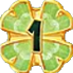
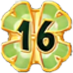
melhora

diff --git a/teste.py b/teste.py
@@ -79,14 +79,14 @@ def exibir_taboleiro(taboleiro,screen, posx1, posx2, posx3, posx4, posx5, posx6,
         for j in range(4):#colunas
             n_botao += 1
             if taboleiro[i][j] !=0:
-                imagem_fundo = pygame.image.load("trevos/" + str(taboleiro[0][0]) + ".png").convert_alpha()
+                imagem_fundo = pygame.image.load("trevos/" + str(taboleiro[i][j]) + ".png").convert_alpha()
                 imagem_fundo = pygame.transform.scale(imagem_fundo, (73, 73))
                 x = eval("posx" + str(n_botao))
                 y = eval("posy" + str(n_botao))
                 screen.blit(imagem_fundo, (x - 36, y - 36))
 
     if taboleiro[4][0] != 0:
-        imagem_fundo = pygame.image.load("trevos/" + str(taboleiro[0][0]) + ".png").convert_alpha()
+        imagem_fundo = pygame.image.load("trevos/" + str(taboleiro[4][0]) + ".png").convert_alpha()
         imagem_fundo = pygame.transform.scale(imagem_fundo, (73, 73))
         x = 281
         y = 615
@@ -744,8 +744,8 @@ def tela6(nome):
         print("Bot começa!")
         while (not B_preenhido and not J_prenchido) and not (len(trevos) == 40):  # as condicoes de fim do jogo sao alguem ja ter preenchido to do o taboleiro ou os trevos esgotarem-se
             #aaa(imagem1_verde_exibida, imagem1_fundo, imagem17_fundo, imagem17_verde_exibida, Botao1, Botao17, screen, posx1, posy1, cor_de_fundo, imagem_fundo, ButtonGrups)
-            turnob(taboleiroB, trevos, 40, Comeco, table, nome)
-            turnoj(imagem_fundo,screen, nome, taboleiroJ, trevos, 40, Comeco, table, "BOT", imagem17_fundo,ButtonGrups, imagem2_fundo, imagem3_fundo, imagem4_fundo, imagem5_fundo, imagem6_fundo,
+            turnob(taboleiroB, trevos, 20, Comeco, table, nome)
+            turnoj(imagem_fundo,screen, nome, taboleiroJ, trevos, 20, Comeco, table, "BOT", imagem17_fundo,ButtonGrups, imagem2_fundo, imagem3_fundo, imagem4_fundo, imagem5_fundo, imagem6_fundo,
                                       imagem7_fundo, imagem8_fundo, imagem9_fundo, imagem10_fundo, imagem11_fundo,
                                       imagem12_fundo, imagem13_fundo, imagem14_fundo, imagem15_fundo, imagem16_fundo,
                                       Botao1, Botao2, Botao3, Botao4, Botao5, Botao6, Botao7, Botao8,
@@ -769,7 +769,7 @@ def tela6(nome):
         print("O %s começa!" % nome)
         while (not B_preenhido or not J_prenchido) and not (len(trevos) == 40):
             #aaa(imagem1_verde_exibida, imagem1_fundo, imagem17_fundo, imagem17_verde_exibida, Botao1, Botao17, screen, posx1, posy1, cor_de_fundo, imagem_fundo, ButtonGrups)
-            turnoj(imagem_fundo,screen, nome, taboleiroJ, trevos, 40, Comeco, table, "BOT", imagem17_fundo, ButtonGrups, imagem2_fundo, imagem3_fundo, imagem4_fundo, imagem5_fundo, imagem6_fundo,
+            turnoj(imagem_fundo,screen, nome, taboleiroJ, trevos, 20, Comeco, table, "BOT", imagem17_fundo, ButtonGrups, imagem2_fundo, imagem3_fundo, imagem4_fundo, imagem5_fundo, imagem6_fundo,
                                       imagem7_fundo, imagem8_fundo, imagem9_fundo, imagem10_fundo, imagem11_fundo,
                                       imagem12_fundo, imagem13_fundo, imagem14_fundo, imagem15_fundo, imagem16_fundo,
                                       Botao1, Botao2, Botao3, Botao4, Botao5, Botao6, Botao7, Botao8,
@@ -782,7 +782,7 @@ def tela6(nome):
                                       posx10, posx11, posx12, posx13, posx14, posx15, posx16, posy1, posy2,
                                       posy3, posy4, posy5, posy6, posy7, posy8, posy9, posy10, posy11, posy12, posy13,
                                       posy14, posy15, posy16)
-            turnob(taboleiroB, trevos, 40, Comeco, table, nome)
+            turnob(taboleiroB, trevos, 20, Comeco, table, nome)
 
             # print(table)
             """a = int(input("cheat: "))
